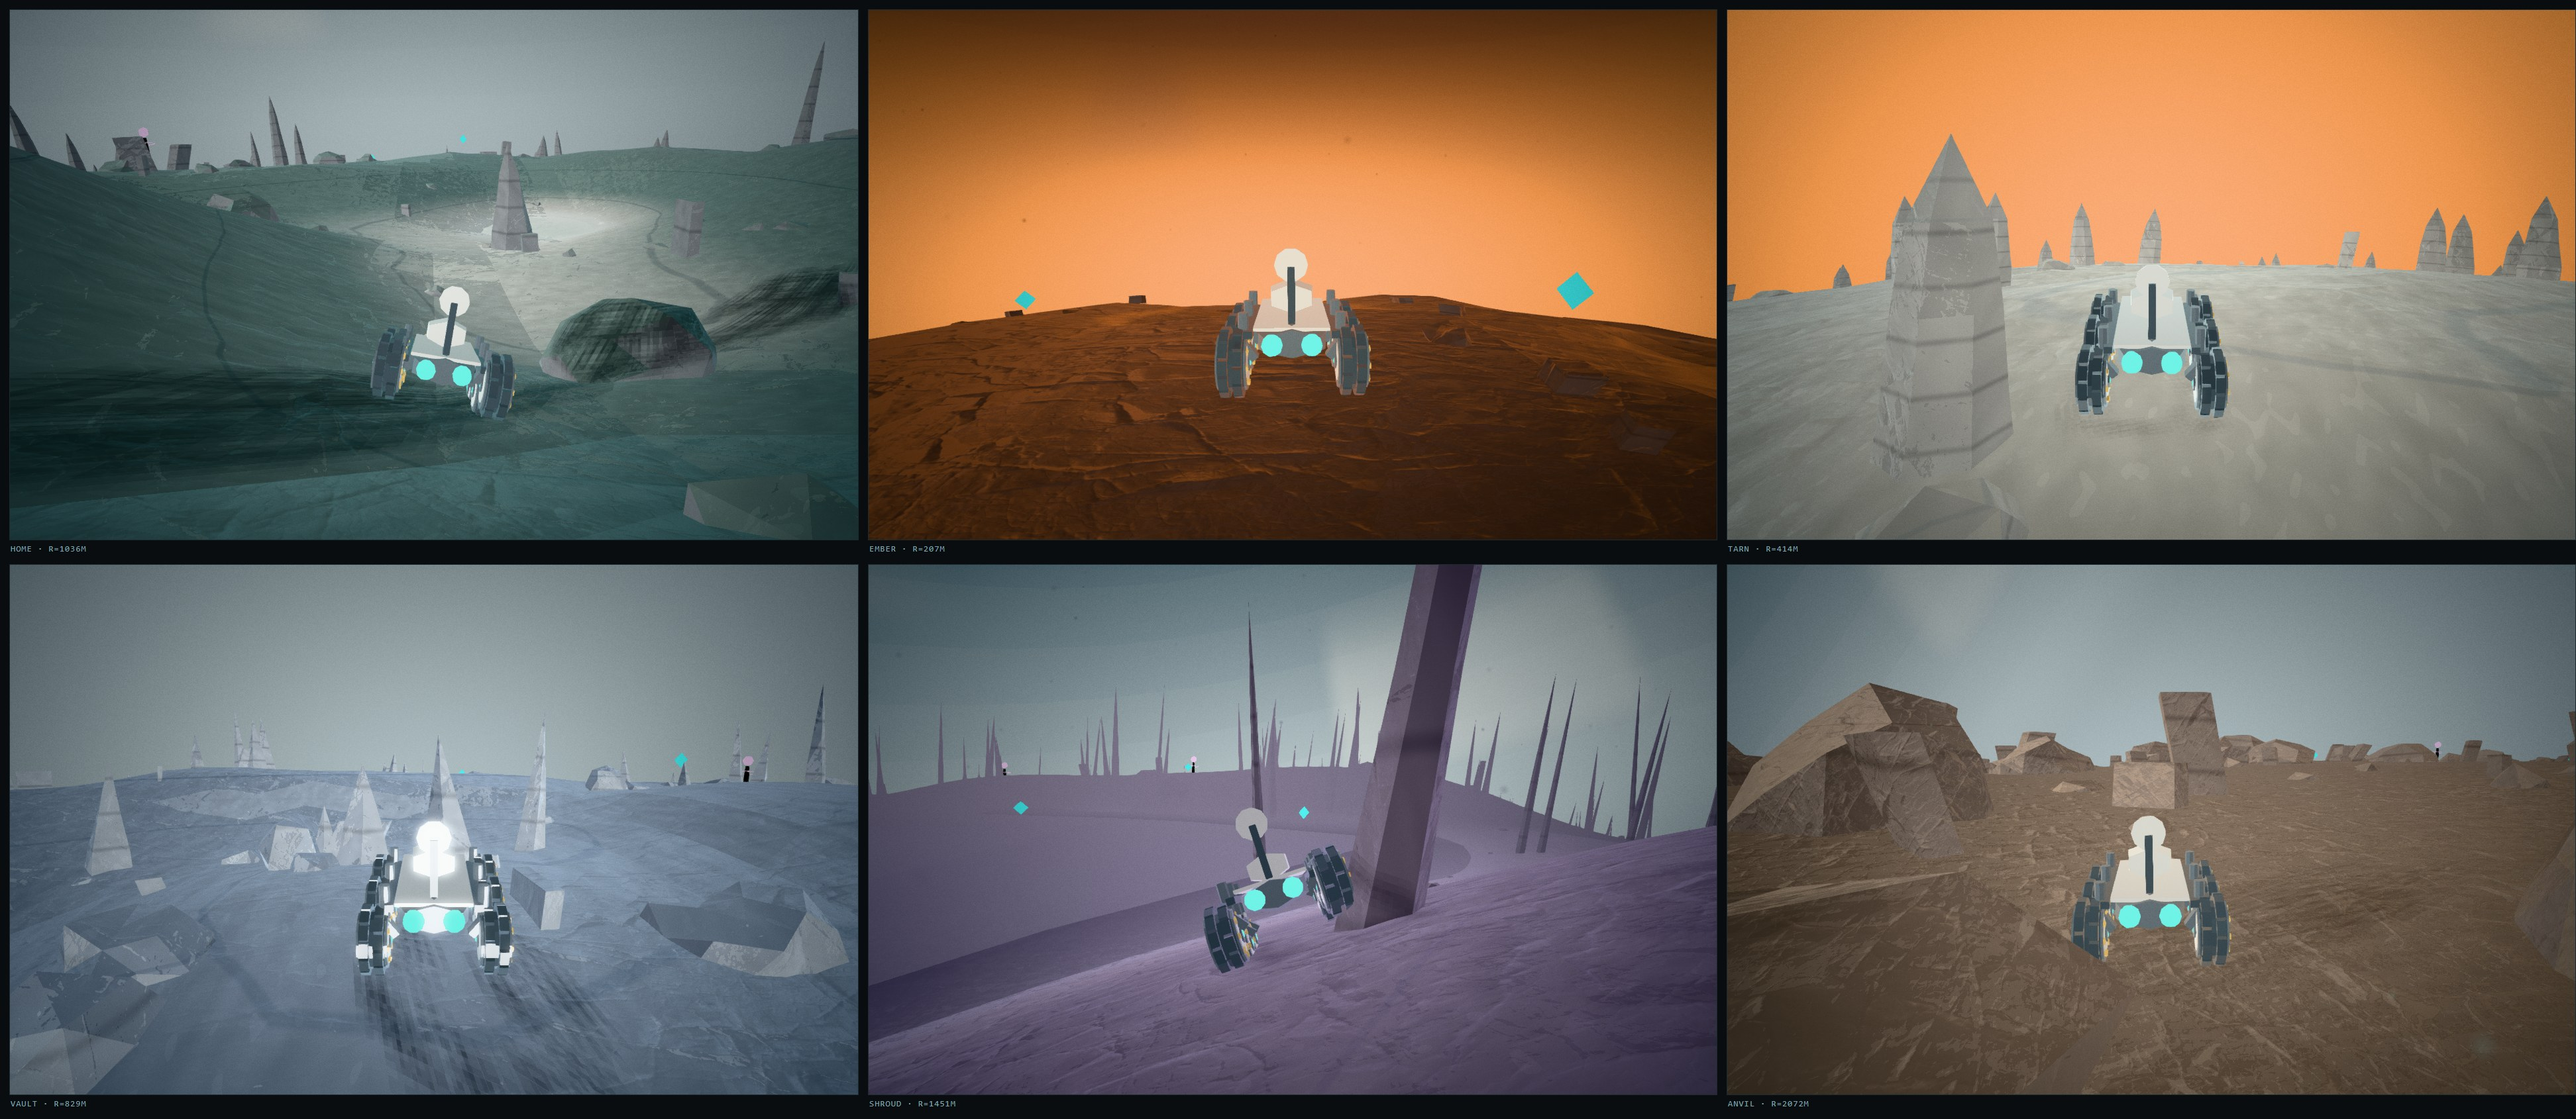
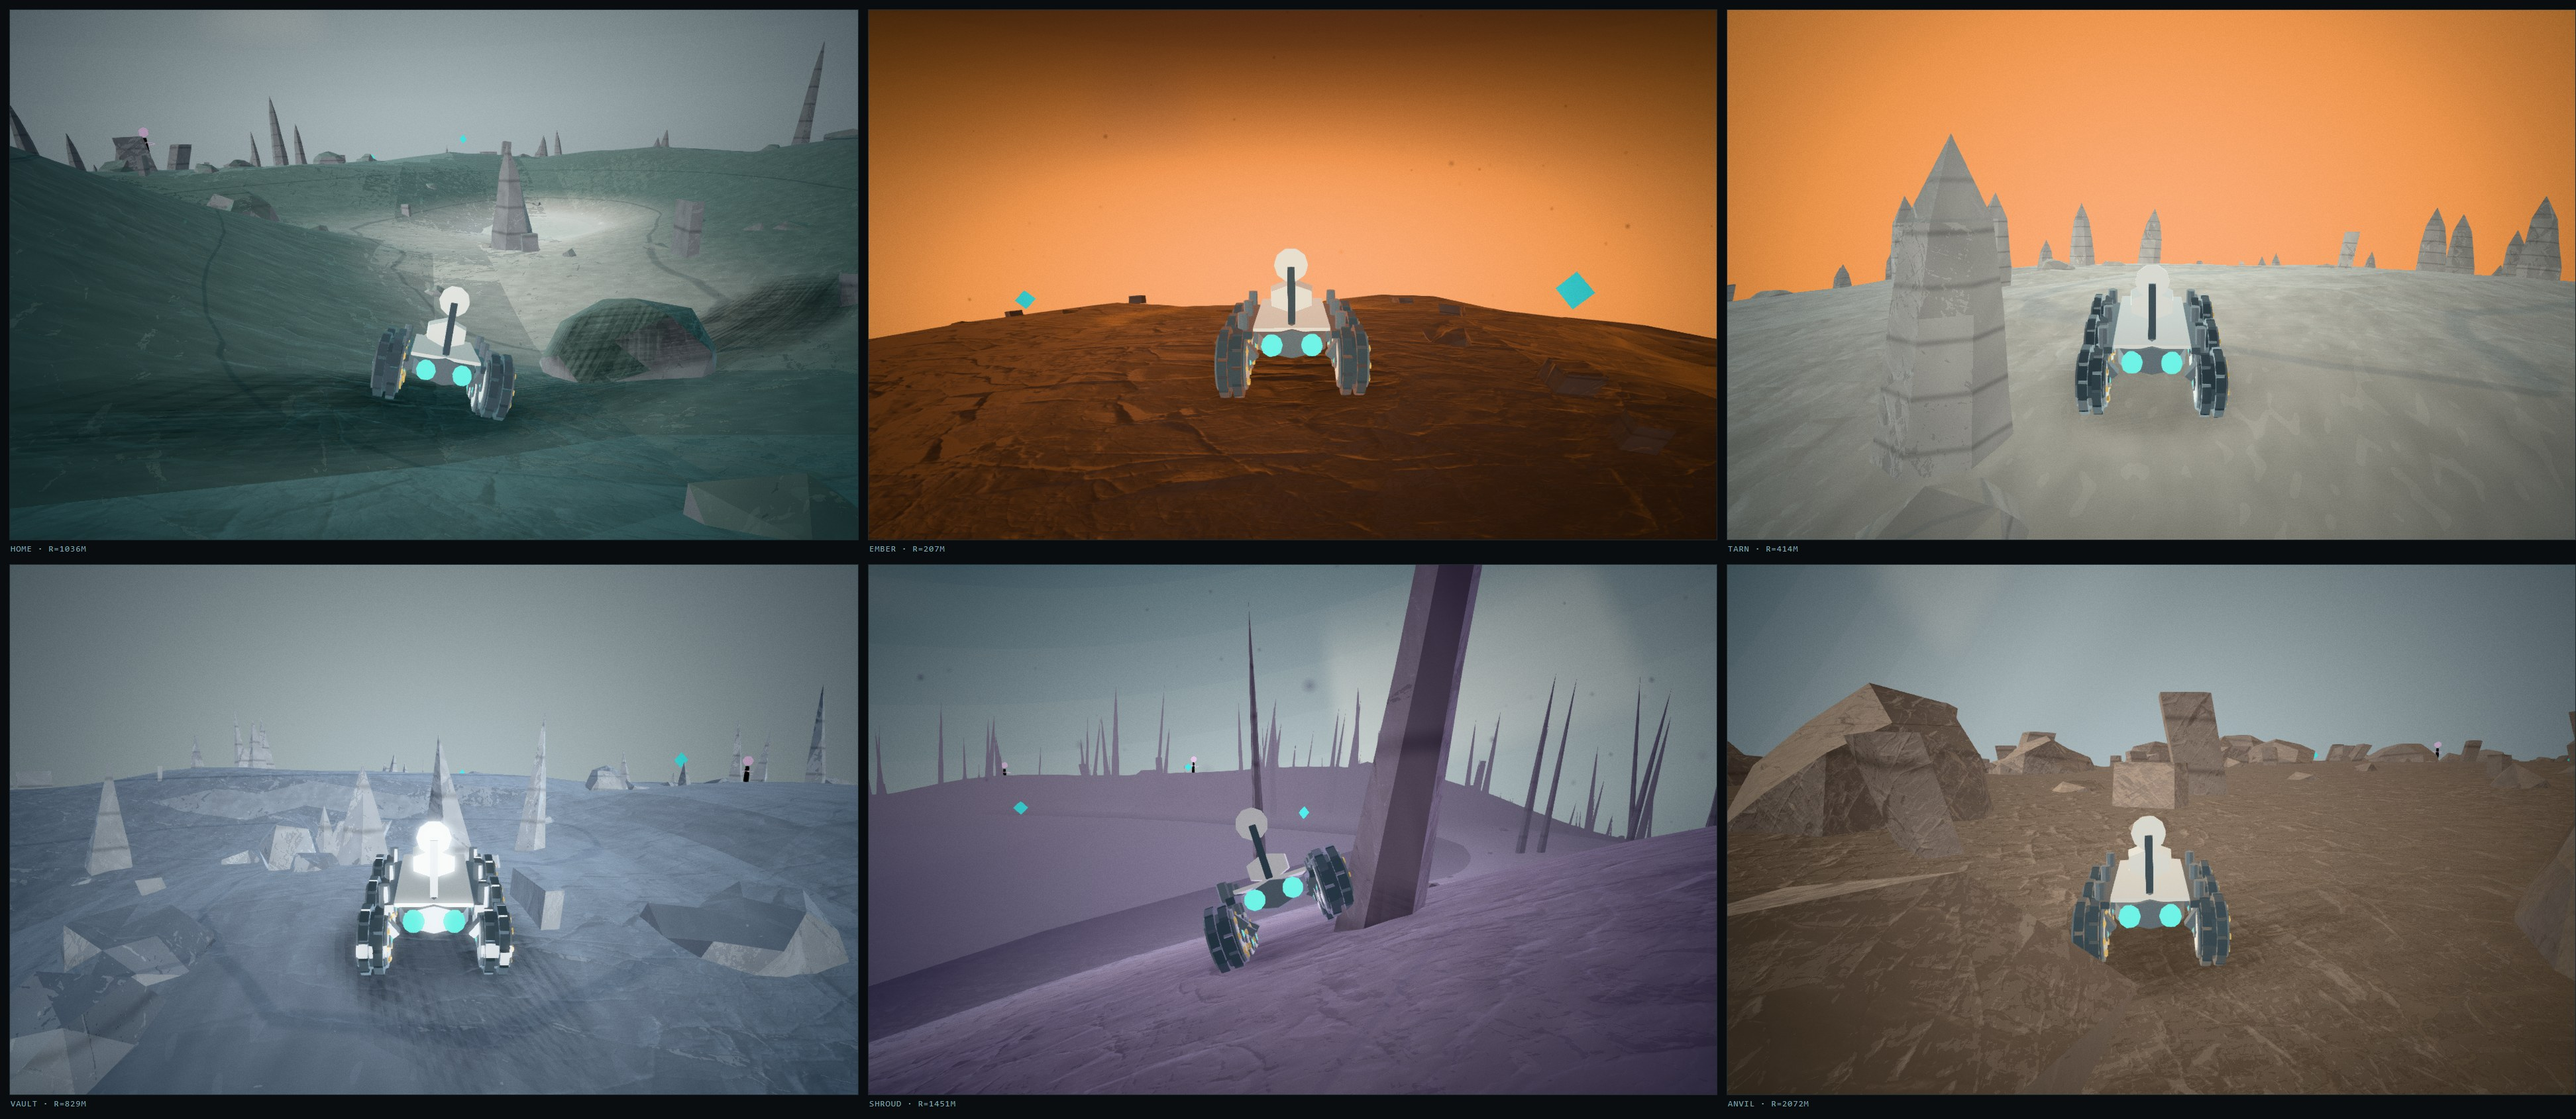
Fix the shadows: normal-offset bias, wider PCF, and a contact shadow
The reported symptom was acne stripes and a detached shadow at once, and that
pair is the signature of a constant depth bias. It cannot be tuned out: the
depth error across a texel grows as 1/cos of the angle between the normal and
the light, so any value large enough to stop acne on a slope has already
detached the shadow on the flats. Offsetting the SAMPLE POSITION along the
surface normal instead moves it in the direction the error actually lies, and
one number holds at every angle. A/B'd on Vault, same frame: with the old
constant bias every shard's shadow floats clear of its base; with the normal
offset they are attached.

PCF widened from 9 taps to 16 at 1.6 texels. A hard shadow-map edge on a
cel-banded surface reads as an artifact rather than a shadow — everything else
in the frame has deliberate hard edges and this one was the wrong shape for
them.

The craft now has a guaranteed contact shadow, independent of the sun, the
world, and whether that world has cast shadows at all. Drawn in the terrain
shader rather than as a decal: the terrain already knows its own world
position, so a distance test against the craft's ground point follows every
fold of the ground instead of clipping into slopes and hovering over hollows.
It fades out with altitude. Verified on Ember, which has no cast shadows and
where the rover still sits on the ground.

THE SUN ELEVATION IS NOT THE CAUSE HERE, and the sun is unchanged. 5.8 degrees
[…]

diff --git a/games/surveyor/js/world/materials.js b/games/surveyor/js/world/materials.js
@@ -249,13 +249,18 @@ function registerShaders() {
        uTriFade   detail fade start/end, macro relax start/end, in metres */
     uniform sampler2D uTriFlat, uTriSteep, uTriHigh;
     uniform vec4 uTriScale, uTriSlope, uTriMix, uTriFade;
-    /* Cast shadows. uShadowP: x strength, y bias, z fade start, w fade end —
-       the last two in metres from the box centre, so the term is gone before
-       the box edge rather than ending at a visible square. */
+    /* Cast shadows.
+       uShadowP  x strength, y normal offset in METRES, z depth bias,
+                 w half the box, so the term fades before the box edge rather
+                 than ending at a visible square
+       uShadowS  PCF tap spacing, in shadow-map UV
+       uContact  xyz the craft's ground point, w its radius in metres
+       uContactK the contact blob's strength, already faded by altitude */
     uniform sampler2D uShadowMap;
     uniform mat4 uShadowMat;
-    uniform vec4 uShadowP;
+    uniform vec4 uShadowP, uContact;
     uniform vec3 uShadowAt;
+    uniform float uShadowS, uContactK;
     /* Split from uTriMix.x on purpose. The perturbed NORMAL and the detail
        LUMINANCE do very different things to a chart: the normal changes how the
        ground catches light, which the contour lines do not care about, while
@@ -405,24 +410,45 @@ function registerShaders() {
          on a low sun, anything more costs more than it shows at this map size. */
       float shadow = 1.0;
       if (uShadowP.x > 0.001) {
-        vec4 ls = uShadowMat * vec4(vW, 1.0);
+        /* NORMAL-OFFSET BIAS. The sample position is pushed along the surface
+           normal before it is projected, rather than the depth being nudged
+           after. A constant depth bias fails at grazing angles by construction
+           — the error across a texel goes as 1/cos, so the value that stops
+           acne on a slope has already detached the shadow on the flats — and
+           this moves the sample in the direction the error actually lies, so
+           one number holds everywhere. Scaled up as the surface turns away from
+           the light, which is where a texel spans the most depth. */
+        float ndl = clamp(dot(N, uLight), 0.0, 1.0);
+        vec3 sp = vW + N * uShadowP.y * (1.0 + 2.0 * (1.0 - ndl));
+        vec4 ls = uShadowMat * vec4(sp, 1.0);
         vec3 sc = ls.xyz / ls.w * 0.5 + 0.5;
         if (sc.x > 0.0 && sc.x < 1.0 && sc.y > 0.0 && sc.y < 1.0 && sc.z < 1.0) {
-          // Bias scaled by slope: a face turned away from the sun crosses more
-          // depth per texel and needs more slack, which is where acne starts.
-          float bias = uShadowP.y * (1.0 + 3.0 * (1.0 - clamp(dot(N, uLight), 0.0, 1.0)));
+          /* 4x4 PCF. A hard shadow-map edge on a cel-banded surface reads as an
+             artifact and not as a shadow: everything else in this frame has
+             deliberate hard edges, and this one is the wrong shape for them. */
           float lit = 0.0;
-          for (int yy = -1; yy <= 1; yy++) {
-            for (int xx = -1; xx <= 1; xx++) {
-              vec2 o = vec2(float(xx), float(yy)) * uShadowP.z;
-              lit += step(sc.z - bias, texture2D(uShadowMap, sc.xy + o).r);
+          for (int yy = 0; yy < 4; yy++) {
+            for (int xx = 0; xx < 4; xx++) {
+              vec2 o = (vec2(float(xx), float(yy)) - 1.5) * uShadowS;
+              lit += step(sc.z - uShadowP.z, texture2D(uShadowMap, sc.xy + o).r);
             }
           }
-          lit /= 9.0;
-          // Out over the last of the box, so the edge is never a visible square.
+          lit /= 16.0;
           float far = smoothstep(uShadowP.w * 0.72, uShadowP.w, distance(vW, uShadowAt));
           shadow = mix(mix(1.0 - uShadowP.x, 1.0, lit), 1.0, far);
         }
+      }
+
+      /* The craft's contact shadow, and it is not the cast shadow's job.
+         Independent of the sun, of the world, and of whether this world has
+         cast shadows at all — Ember has none and the rover still has to sit on
+         the ground there. Drawn here rather than as a decal because the terrain
+         already knows its own world position, so this follows every fold of the
+         ground instead of clipping into slopes and hovering over hollows. */
+      if (uContactK > 0.001) {
+        float cd = distance(vW, uContact.xyz);
+        shadow *= 1.0 - uContactK *
+          (1.0 - smoothstep(uContact.w * 0.40, uContact.w, cd));
       }
 
       /* T3: the surface normal the LIGHT sees. Perturbed after the palette and
@@ -1018,7 +1044,8 @@ export function createMaterials(scene, planet) {
         'uDetail', 'uRelief', 'uShade', 'uRim', 'uSpec', 'uEmit', 'uEmitFrom',
         'uEmitCol', 'uEmitHot', 'uLightMix', 'uSunCol', 'uRimP',
         'uTriScale', 'uTriSlope', 'uTriMix', 'uTriFade', 'uTriDetail',
-        'uShadowMat', 'uShadowP', 'uShadowAt'],
+        'uShadowMat', 'uShadowP', 'uShadowAt', 'uShadowS',
+        'uContact', 'uContactK'],
       samplers: ['uTriFlat', 'uTriSteep', 'uTriHigh', 'uShadowMap'],
     });
   /* T3 — triplanar. Fade distances arrive as fractions of the fog range so a
@@ -1161,13 +1188,29 @@ export function createMaterials(scene, planet) {
        materials.js knows the terrain material and shadows.js knows the map, and
        neither has to import the other. Called once when a world is built. */
     bindShadows(sh) {
+      terrain.setVector4('uContact', new BABYLON.Vector4(0, 0, 0, 1));
+      terrain.setFloat('uContactK', 0);
       if (!sh || !sh.rtt) {
         terrain.setVector4('uShadowP', new BABYLON.Vector4(0, 0, 0, 0));
+        terrain.setFloat('uShadowS', 0);
         return;
       }
       terrain.setTexture('uShadowMap', sh.rtt);
+      /* The normal offset arrives in METRES: tune states it in texels, because
+         that is the unit the error is actually in, and the texel's world size
+         is a property of this world's box. One multiply here rather than a
+         second uniform and a divide in every fragment. */
       terrain.setVector4('uShadowP', new BABYLON.Vector4(
-        sh.cfg.strength, sh.cfg.bias, sh.cfg.softness, sh.cfg.range * 0.5));
+        sh.cfg.strength, sh.texelWorld * sh.cfg.normalOffset,
+        sh.cfg.depthBias, sh.cfg.range * 0.5));
+      terrain.setFloat('uShadowS', sh.cfg.softness / sh.cfg.mapSize);
+    },
+
+    /** The craft's ground point, per frame. Zero strength when it is nowhere
+     *  near the ground, or when there is no craft yet. */
+    setContact(at, strength) {
+      terrain.setVector4('uContact', at);
+      terrain.setFloat('uContactK', strength);
     },
 
     /** Per frame: the box moves with the craft, so the matrix does too. */

diff --git a/games/surveyor/js/tune.js b/games/surveyor/js/tune.js
@@ -242,11 +242,54 @@ export const SHADOW = {
   mapSize: 2048,
   range: 400,           // metres across the box, centred on the craft
   strength: 0.75,       // how much of the key a full shadow removes
-  /* Depth slack, in the 0..1 the ortho box maps to. Scaled by slope in the
-     shader, because a face turned away from the sun crosses more depth per
-     texel and that is exactly where acne starts. */
-  bias: 0.0016,
-  softness: 0.00075,    // PCF tap spacing, in shadow-map UV
+
+  /* NORMAL-OFFSET BIAS, in texels of the shadow map, and it replaced a constant
+     depth bias that could not be made to work.
+     A constant bias fails at grazing angles by construction: the depth error
+     across one texel grows as 1/cos(angle between the normal and the light), so
+     any value large enough to stop acne on a slope has detached the shadow on
+     the flats before it got there. Both failures at once, which is exactly what
+     that looked like. Offsetting the SAMPLE POSITION along the surface normal
+     instead moves it in the direction the error actually lies, so one number
+     holds across every angle. This is metres at the shader, computed from the
+     texel's world size — a 400m box on a 2048 map is 20cm a texel, so 1.4 of
+     them is 27cm of offset. */
+  normalOffset: 1.4,
+  // A little depth slack on top, for the sliver right at a contact edge where
+  // the normal offset has nowhere to push.
+  depthBias: 0.00025,
+
+  /* PCF, in texels. 4x4 taps: a hard shadow-map edge on a cel-banded surface
+     reads as an artifact rather than as a shadow, because everything else in
+     the frame has deliberate hard edges and this one is the wrong shape. 16
+     taps at 1.6 texels is a ~6 texel penumbra, which at 20cm a texel is a hand's
+     width of softness — enough to read as a shadow, not enough to smear the
+     contact. */
+  softness: 1.6,
+};
+
+/**
+ * The craft's contact shadow.
+ *
+ * A guaranteed blob under the rover, independent of the sun, the world, and
+ * whether that world has cast shadows at all. Ember has none and the rover
+ * still has to sit on the ground there; so does anything flying at an angle
+ * where its cast shadow has gone somewhere else entirely.
+ *
+ * Drawn IN THE TERRAIN SHADER rather than as a decal mesh. The terrain already
+ * knows its own world position, so a distance test against the craft's ground
+ * point costs one subtract and follows every fold of the ground exactly — where
+ * a projected disc would clip into slopes and hover over hollows, which is the
+ * failure that makes blob shadows look cheap.
+ */
+export const CONTACT = {
+  enabled: true,
+  radius: 4.2,          // metres. The rover is about 3m across the tracks
+  strength: 0.55,       // how much of the key it removes at the centre
+  // Metres of altitude over which it fades out. A jet at fifty metres should
+  // not be painting a hard disc on the ground under itself.
+  fadeFrom: 3.0,
+  fadeTo: 26.0,
 };
 
 /**

diff --git a/games/surveyor/js/world/world.js b/games/surveyor/js/world/world.js
@@ -24,6 +24,7 @@ import { Water } from './water.js';
 import { createSky } from './sky.js';
 import { Discs } from './discs.js';
 import { Shadows } from './shadows.js';
+import { CONTACT } from '../tune.js';
 import { Survey } from '../game/survey.js';
 import { Colonies } from '../game/colony.js';
 
@@ -54,6 +55,7 @@ export class World {
        — a list holding disposed meshes grows without bound and Babylon will
        happily try to draw them. */
     this.shadows = new Shadows(scene, planet, this.mats.skyParams.sunDir);
+    this._contactTmp = { x: 0, y: 0, z: 0 };
     this.field = new ChunkField(scene, this.mats.terrain, planet);
     this.field.onBuild = (mesh) => this.shadows.addCaster(mesh);
     this.field.onDrop = (mesh) => this.shadows.removeCaster(mesh);
@@ -71,6 +73,37 @@ export class World {
     this.field.update(dir);
     for (let i = 0; i < budget && this.field.queue.length; i++) this.field.update(dir);
     this.survey.update(0.016);
+  }
+
+  /**
+   * The craft's contact shadow: where it meets the ground, and how much.
+   *
+   * The ground point is the terrain height under the craft's own tangent
+   * coordinates, not the craft's position — a rover on a slope sits above the
+   * point its shadow belongs on, and a jet sits a long way above it. Faded out
+   * with altitude, because a craft at fifty metres painting a hard disc under
+   * itself is worse than no contact shadow at all.
+   */
+  contact(craft) {
+    if (!CONTACT.enabled || !craft || !craft.surf) {
+      this.mats.setContact(this._contactAt || BABYLON.Vector4.Zero(), 0);
+      return;
+    }
+    const p = craft.pos;
+    const gy = craft.surf.surfaceHeight(p.x, p.z);
+    const alt = Math.max(0, p.y - gy);
+    const k = CONTACT.strength *
+      (1 - Math.min(1, Math.max(0, (alt - CONTACT.fadeFrom) /
+        (CONTACT.fadeTo - CONTACT.fadeFrom))));
+    if (k <= 0.001) { this.mats.setContact(this._contactVec(0, 0, 0, 1), 0); return; }
+    const w = craft.surf.toWorld(p.x, gy, p.z, this._contactTmp);
+    this.mats.setContact(this._contactVec(w.x, w.y, w.z, CONTACT.radius), k);
+  }
+
+  _contactVec(x, y, z, r) {
+    if (!this._contactAt) this._contactAt = new BABYLON.Vector4(0, 0, 0, 1);
+    this._contactAt.set(x, y, z, r);
+    return this._contactAt;
   }
 
   setActive(on) {
@@ -115,6 +148,7 @@ export class World {
     // stationary rover.
     this.shadows.update(craft.world);
     this.mats.syncShadows(this.shadows);
+    this.contact(craft);
   }
 }
 

diff --git a/games/surveyor/js/world/shadows.js b/games/surveyor/js/world/shadows.js
@@ -121,6 +121,9 @@ export class Shadows {
 
     scene.customRenderTargets.push(this.rtt);
 
+    // One texel's width on the ground, which is the unit the depth error is
+    // actually in and therefore the unit the normal offset is stated in.
+    this.texelWorld = this.cfg.range / this.cfg.mapSize;
     this.sun = V3(sunDir).normalize();
     this.matrix = BABYLON.Matrix.Identity();
     this._centre = new BABYLON.Vector3();

diff --git a/games/surveyor/README.md b/games/surveyor/README.md
@@ -154,6 +154,19 @@ a sun at all" and its light comes off the ground. A directional sun shadow map
 there draws shadows cast by a light that is not doing the lighting. Off, not
 tuned down.
 
+**Normal-offset bias, not a constant depth bias**, and the first cut had the
+constant one. It cannot be made to work: the depth error across a texel grows as
+1/cos of the angle between the normal and the light, so any value large enough
+to stop acne on a slope has already detached the shadow on the flats. Both
+failures at once, which is exactly what it looked like. Offsetting the sample
+position along the surface normal moves it in the direction the error actually
+lies, and one number then holds at every angle.
+
+**The sun elevations here are 38-59 degrees**, not lookdev's 5.8. A 2m rover
+casts 1.2-2.5m on the five worlds that have shadows. Ember is the only low one
+at 13.9 and its shadows are off. Worth knowing before anyone reaches for the
+sun angle to fix a shadow problem — on this project it is not the cause.
+
 Two things cost a while to find and are worth not rediscovering. Babylon's
 Camera constructor registers every camera in `scene.cameras` whatever you pass
 it, and T1's SSAO2 runs off the prepass — which follows every entry in
